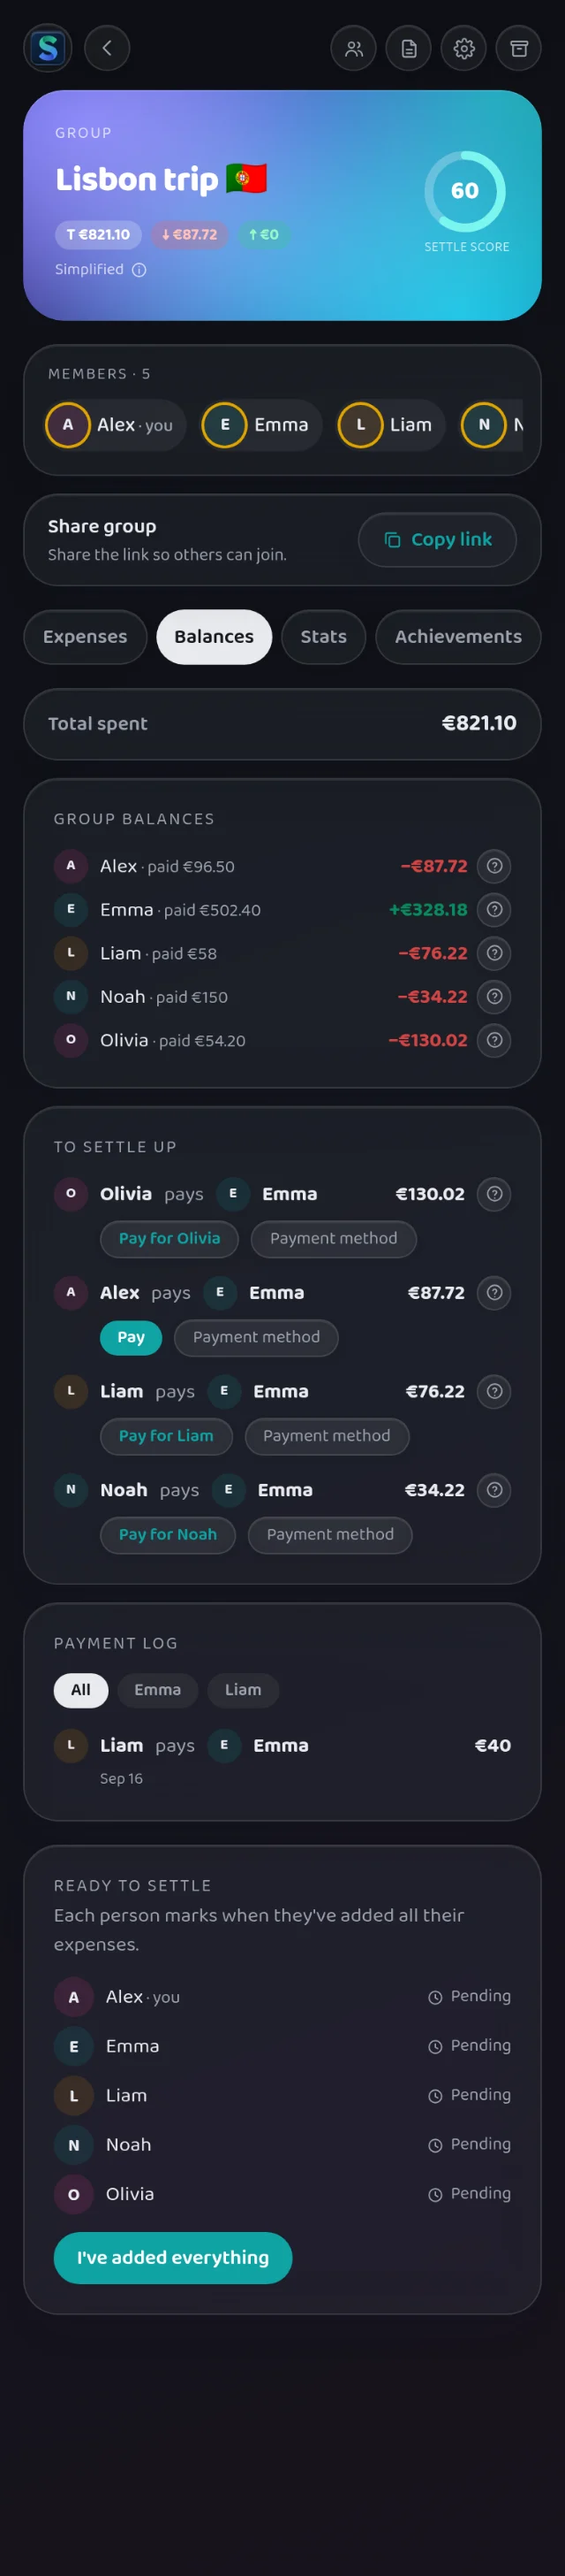
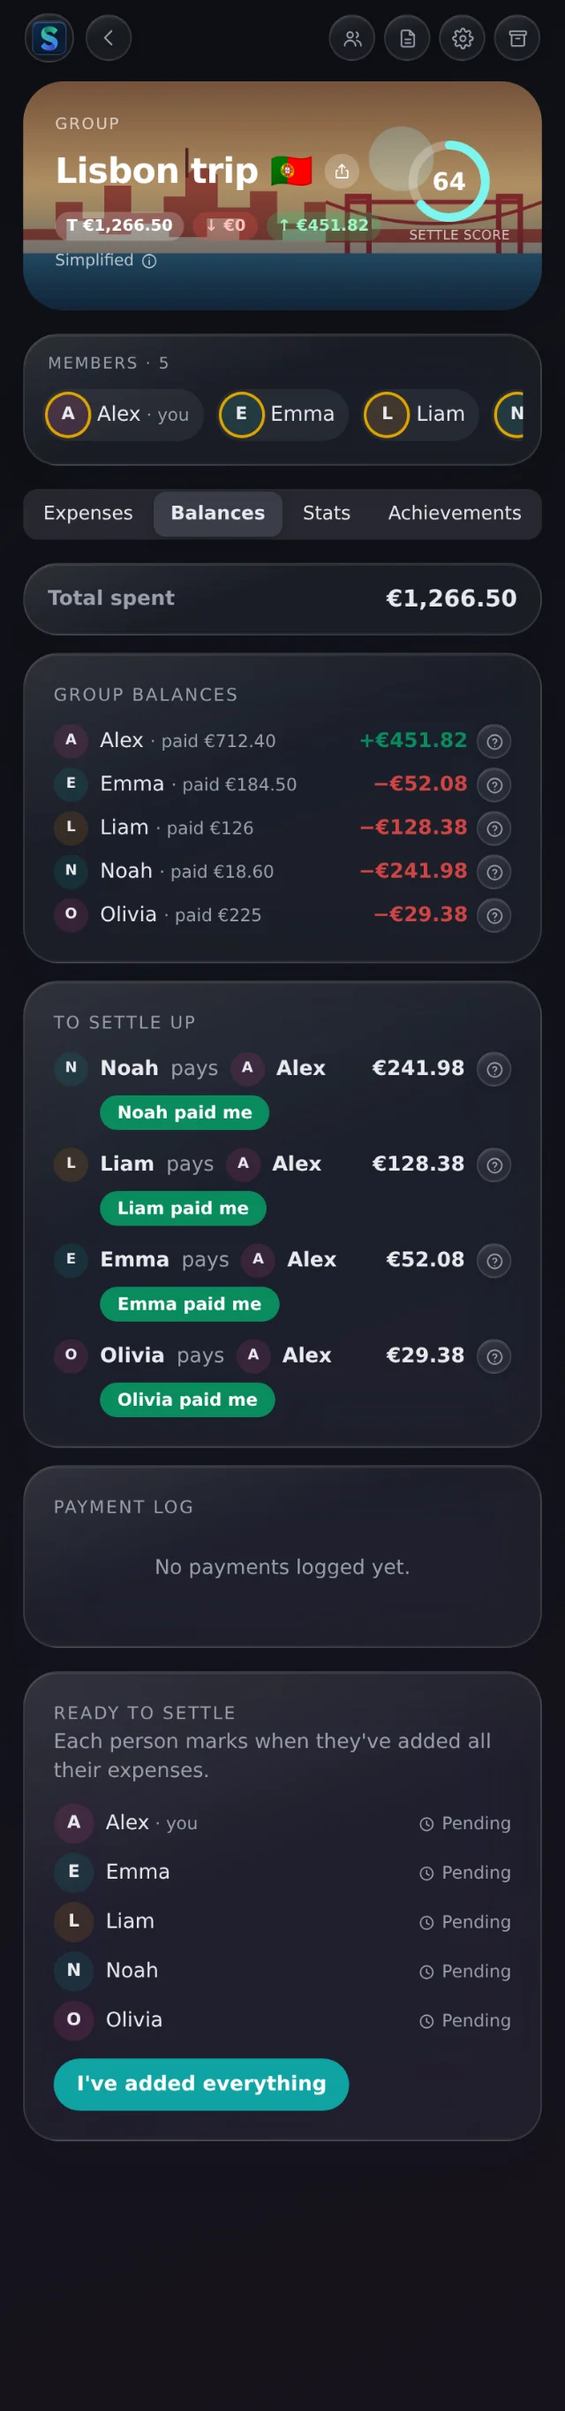
Refresh landing screenshots: travel groups with cover images
Hero carousel and both storyboard flows regenerated from the current app
(floating bottom bar, + add button, cover images on group cards).
Capture scripts updated for the new UI; scroll timings recomputed.

Claude-Session: https://claude.ai/code/session_01TYaX1iZrm54oab7NvKR1fh

diff --git a/index.html b/index.html
@@ -176,23 +176,23 @@
               </span>
             </div>
             <div class="shot-stage">
-              <div class="slide on" style="--scroll-dur:1.6s" data-ms="3800">
-                <img src="assets/app/01-home.webp" width="640" height="1739" loading="eager" fetchpriority="high" decoding="async"
+              <div class="slide on" style="--scroll-dur:2.9s" data-ms="5100">
+                <img src="assets/app/01-home.webp" width="640" height="2105" loading="eager" fetchpriority="high" decoding="async"
                      alt="Your groups, each with its own balance" data-es-alt="Tus grupos, cada uno con su saldo" />
               </div>
-              <div class="slide" style="--scroll-dur:2.7s" data-ms="4900">
-                <img src="assets/app/02-expenses.webp" width="640" height="2051" loading="lazy" decoding="async"
+              <div class="slide" style="--scroll-dur:1.9s" data-ms="4100">
+                <img src="assets/app/02-expenses.webp" width="640" height="1817" loading="lazy" decoding="async"
                      alt="A trip group and its expenses, added by AI" data-es-alt="Un grupo de viaje y sus gastos, anadidos con IA" />
               </div>
-              <div class="slide" style="--scroll-dur:5.8s" data-ms="8000">
-                <img src="assets/app/03-balances.webp" width="640" height="2913" loading="lazy" decoding="async"
+              <div class="slide" style="--scroll-dur:5.1s" data-ms="7300">
+                <img src="assets/app/03-balances.webp" width="640" height="2727" loading="lazy" decoding="async"
                      alt="Balances and who pays whom to settle up" data-es-alt="Saldos y quien paga a quien para saldar" />
               </div>
-              <div class="slide" style="--scroll-dur:6.9s" data-ms="9100">
-                <img src="assets/app/04-stats.webp" width="640" height="3231" loading="lazy" decoding="async"
+              <div class="slide" style="--scroll-dur:6.6s" data-ms="8800">
+                <img src="assets/app/04-stats.webp" width="640" height="3144" loading="lazy" decoding="async"
                      alt="Group stats: by category, by week, by person" data-es-alt="Estadisticas: por categoria, por semana y por persona" />
               </div>
-              <img class="shot-nav" src="assets/app/nav.webp" width="640" height="102" alt="" aria-hidden="true" loading="lazy" decoding="async" />
+              <img class="shot-nav" src="assets/app/nav.webp" width="640" height="120" alt="" aria-hidden="true" loading="lazy" decoding="async" />
             </div>
           </div>
         </div>
@@ -215,22 +215,22 @@
           <h3 class="flow-title" data-es="Haz una foto del ticket">Snap the receipt</h3>
           <div class="flow-phone">
             <div class="flow-stage">
-            <div class="slide on" style="--scroll-dur:2.6s" data-ms="5000">
-              <img src="assets/flow/a1-reading.webp" width="640" height="1951" loading="lazy" decoding="async"
+            <div class="slide on" style="--scroll-dur:1.9s" data-ms="4100">
+              <img src="assets/flow/a1-reading.webp" width="640" height="1817" loading="lazy" decoding="async"
                    alt="Take a photo of the bill." data-es-alt="Haz una foto de la cuenta." />
             </div>
-            <div class="slide" style="--scroll-dur:9.7s" data-ms="12100">
-              <img src="assets/flow/a3-items.webp" width="640" height="4047" loading="lazy" decoding="async"
+            <div class="slide" style="--scroll-dur:8.9s" data-ms="11100">
+              <img src="assets/flow/a3-items.webp" width="640" height="3794" loading="lazy" decoding="async"
                    alt="AI reads every line and its price." data-es-alt="La IA lee cada linea y su precio." />
             </div>
-            <div class="slide" style="--scroll-dur:9.7s" data-ms="12100">
-              <img src="assets/flow/a4-assigned.webp" width="640" height="4047" loading="lazy" decoding="async"
+            <div class="slide" style="--scroll-dur:8.9s" data-ms="11100">
+              <img src="assets/flow/a4-assigned.webp" width="640" height="3794" loading="lazy" decoding="async"
                    alt="Tap who had what." data-es-alt="Marca quien consumio que." />
             </div>
-            <div class="slide" style="--scroll-dur:6.0s" data-ms="8400">
-              <img src="assets/flow/a6-saved-detail.webp" width="640" height="2955" loading="lazy" decoding="async"
+            <div class="slide" style="--scroll-dur:5.4s" data-ms="7600">
+              <img src="assets/flow/a6-saved-detail.webp" width="640" height="2821" loading="lazy" decoding="async"
                    alt="Saved, with each person's share." data-es-alt="Guardado, con la parte de cada uno." />
-              <img class="flow-nav" src="assets/app/nav.webp" width="640" height="102" alt="" aria-hidden="true" loading="lazy" decoding="async" />
+              <img class="flow-nav" src="assets/app/nav.webp" width="640" height="120" alt="" aria-hidden="true" loading="lazy" decoding="async" />
             </div>
             </div>
           </div>
@@ -251,20 +251,20 @@
           <h3 class="flow-title" data-es="O simplemente escribelo">Or just write it</h3>
           <div class="flow-phone">
             <div class="flow-stage">
-            <div class="slide on" style="--scroll-dur:2.9s" data-ms="5300">
-              <img src="assets/flow/b1-prompt.webp" width="640" height="2051" loading="lazy" decoding="async"
+            <div class="slide on" style="--scroll-dur:2.2s" data-ms="4400">
+              <img src="assets/flow/b1-prompt.webp" width="640" height="1917" loading="lazy" decoding="async"
                    alt="Write it the way you'd say it." data-es-alt="Escribelo como lo dirias." />
-              <img class="flow-nav" src="assets/app/nav.webp" width="640" height="102" alt="" aria-hidden="true" loading="lazy" decoding="async" />
+              <img class="flow-nav" src="assets/app/nav.webp" width="640" height="120" alt="" aria-hidden="true" loading="lazy" decoding="async" />
             </div>
-            <div class="slide" style="--scroll-dur:7.4s" data-ms="9800">
-              <img src="assets/flow/b2-parsed.webp" width="640" height="3381" loading="lazy" decoding="async"
+            <div class="slide" style="--scroll-dur:4.5s" data-ms="6700">
+              <img src="assets/flow/b2-parsed.webp" width="640" height="2563" loading="lazy" decoding="async"
                    alt="AI fills in amount, payer and who splits." data-es-alt="La IA pone importe, pagador y entre quienes." />
-              <img class="flow-nav" src="assets/app/nav.webp" width="640" height="102" alt="" aria-hidden="true" loading="lazy" decoding="async" />
+              <img class="flow-nav" src="assets/app/nav.webp" width="640" height="120" alt="" aria-hidden="true" loading="lazy" decoding="async" />
             </div>
-            <div class="slide" style="--scroll-dur:3.3s" data-ms="5699">
-              <img src="assets/flow/b3-saved.webp" width="640" height="2150" loading="lazy" decoding="async"
+            <div class="slide" style="--scroll-dur:2.6s" data-ms="4800">
+              <img src="assets/flow/b3-saved.webp" width="640" height="2015" loading="lazy" decoding="async"
                    alt="Saved to the group." data-es-alt="Guardado en el grupo." />
-              <img class="flow-nav" src="assets/app/nav.webp" width="640" height="102" alt="" aria-hidden="true" loading="lazy" decoding="async" />
+              <img class="flow-nav" src="assets/app/nav.webp" width="640" height="120" alt="" aria-hidden="true" loading="lazy" decoding="async" />
             </div>
             </div>
           </div>

diff --git a/scripts/README-screenshots.md b/scripts/README-screenshots.md
@@ -116,3 +116,22 @@ Detalles que importan:
 - Idioma **inglés** y tema **oscuro**, para que casen entre ellas.
 - Si se añade o quita una captura, actualizar **los `dot` del slideshow** en
   `index.html` (hay uno por slide) y recalcular `--scroll-dur`/`data-ms`.
+
+## Ronda 2026-10-16: grupos de viaje con imagen
+
+- Semilla temporal: 4 grupos de viaje (Lisbon trip, Japan 2026, Santorini,
+  Mexico road trip), **todos en EUR** (las pastillas del saldo global no
+  convierten monedas: con JPY salía un total absurdo). En Lisbon los miembros
+  son Alex (yo), Emma, Liam, Olivia y Noah, que son los nombres que usa
+  `capture-flows.mjs`.
+- Cada grupo lleva `heroImage` apuntando a `/tmp-hero/<pais>.jpg`, copiado
+  **temporalmente** en `public/tmp-hero/` de la app. Son ilustraciones planas
+  dibujadas en SVG (no fotos: el sandbox no llega a bancos de imágenes).
+  Borrar `public/tmp-hero/` al terminar.
+- Cambios de UI que obligaron a tocar los scripts: la barra inferior es una
+  pastilla flotante (`nav.fixed`, se captura con fondo transparente), añadir
+  gasto vive plegado en un **+** flotante (`aria-label="Add an Expense"`), las
+  pestañas son `role="tab"` y la intro de Home se salta con
+  `sessionStorage settlia.heroIntro`.
+- Duraciones del scroll: `--scroll-dur = (alto_webp − 1290) / 281.5` s y
+  `data-ms = dur·1000 + 2200`.
